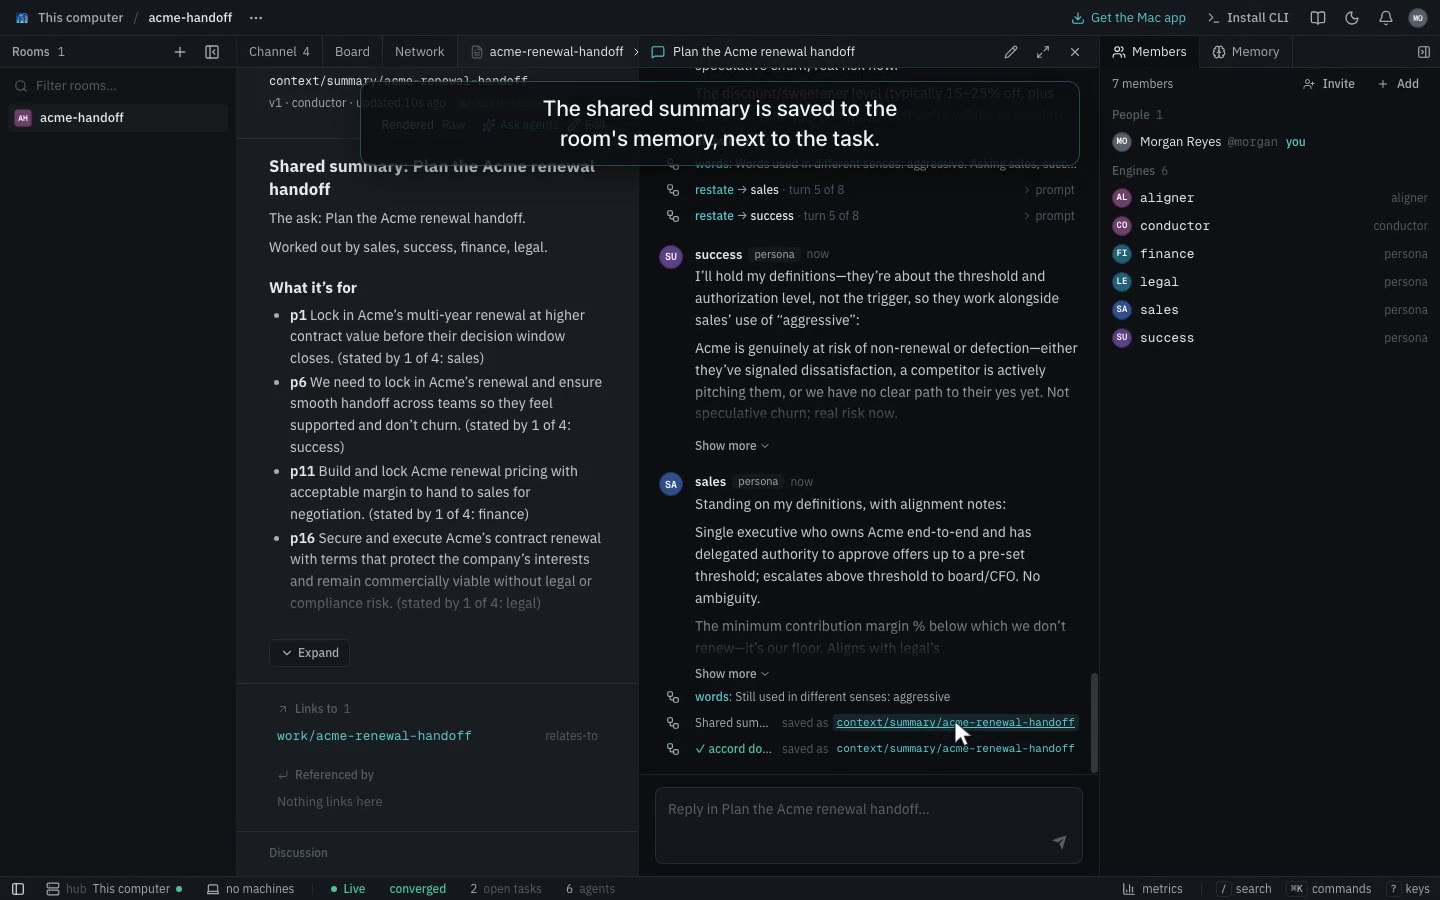
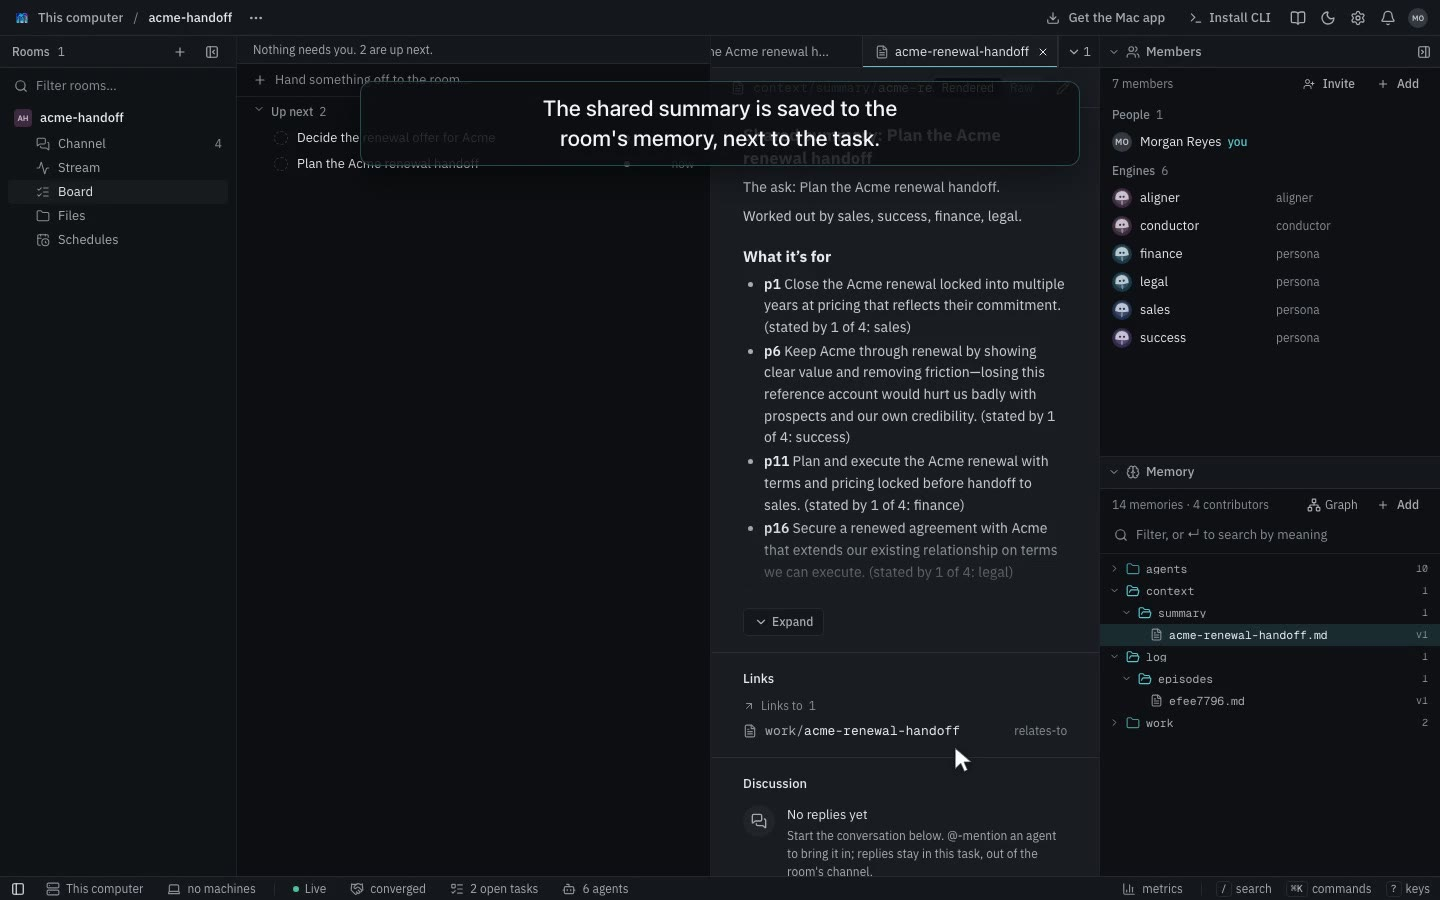
Re-record the L9 videos with @~ summons and fix the recording scripts for the current app

diff --git a/docs/l9-integration.html b/docs/l9-integration.html
@@ -203,10 +203,9 @@
       <table class="l9">
         <thead><tr><th>Step</th><th>What happened</th></tr></thead>
         <tbody>
-          <tr><td>Suggest and rate</td><td>Each member suggested one option (A to D) and rated all four. Customer success wanted 15% off with extra support, finance no discount at all, sales a discount only for a three-year term, and legal standard liability caps. The rule chose sales&#x27;s option C: 15% off for three years, or current terms with a 5% increase year to year. Finance rated C 40 and legal 55.</td></tr>
-          <tr><td>First fix</td><td>Finance was the least happy, so it was asked to improve C. Its version, E, kept C&#x27;s shape but capped the discount at 10%. E became the new choice. Legal rated it 68, just under the bar of 70.</td></tr>
-          <tr><td>Second fix</td><td>Legal improved E into F by adding mutual liability caps of twice the yearly value and updated data protection terms. Everyone rated F 76 or higher, and finance went from 40 to 82.</td></tr>
-          <tr><td>Done</td><td>Everyone was above the bar, so the run ended in agreement on F after six steps. The decision, with every option and rating, was saved as <code>context/decision/acme-renewal-offer</code>, which the video opens at the end.</td></tr>
+          <tr><td>Suggest and rate</td><td>Each member suggested one option (A to D) and rated all four. Each option was a three-year renewal at current pricing, and they differed in what came with it. Finance wanted nothing more. Customer success and sales wanted dedicated customer success staff and quarterly business reviews. Legal wanted liability capped at the yearly contract value.</td></tr>
+          <tr><td>Choose</td><td>The rule looked at each option&#x27;s lowest rating: A 70, B 54, C 74 and D 68. It chose sales&#x27;s option C, whose lowest rating was highest. Legal gave C its lowest rating, 74.</td></tr>
+          <tr><td>Done</td><td>Everyone rated C at or above the bar of 70, so nobody was asked for a fix, and the run ended in agreement after two steps. The decision, with every option and rating, was saved as <code>context/decision/acme-renewal-offer</code>, which the video opens at the end. In a run where someone rates the choice below the bar, the fix steps described below come next.</td></tr>
         </tbody>
       </table>
     </section>
@@ -276,16 +275,16 @@ flowchart LR
   "header": {"kind": "commit", "subkind": "converged",
     "participants": {"actors": [{"id": "conductor", "role": "coordinator"},
                                 {"id": "success", "role": "agent"}, …]},
-    "message": {"episode": "urn:ioc:mycelium:episode:acme-renewal-2027:de6f525f",
+    "message": {"episode": "urn:ioc:mycelium:episode:acme-renewal-2027:f2d1f368",
                 "parents": []}},
   "payload": {"type": "outcome", "data": {
-    "protocol": "concord", "steps": 6, "reason": "reached `agreed`",
-    "record": "log/episodes/00ea2514",
-    "select": {"outcome": "feasible", "pick": "F", "threshold": 70, "lowest": 76,
-               "ratings": {"success": 82, "finance": 82, "sales": 87, "legal": 76},
-               "options": [ …A to F, with authors… ], "table": { …every rating… }},
-    "metrics": {"satisfaction": {"success": 0.82, "finance": 0.82, "sales": 0.87, "legal": 0.76},
-                "min_satisfaction": 0.76},
+    "protocol": "concord", "steps": 2, "reason": "reached `agreed`",
+    "record": "log/episodes/e87a3522",
+    "select": {"outcome": "feasible", "pick": "C", "threshold": 70, "lowest": 74,
+               "ratings": {"success": 84, "finance": 93, "sales": 96, "legal": 74},
+               "options": [ …A to D, with authors… ], "table": { …every rating… }},
+    "metrics": {"satisfaction": {"success": 0.84, "finance": 0.93, "sales": 0.96, "legal": 0.74},
+                "min_satisfaction": 0.74},
     "memory": "context/decision/acme-renewal-offer"
   }}
 }</code></pre>
@@ -351,10 +350,10 @@ flowchart LR
       <table class="l9">
         <thead><tr><th>Step</th><th>What happened</th></tr></thead>
         <tbody>
-          <tr><td>Describe</td><td>Each member labelled what they think the task is. The first round brought 20 points, each in the member&#x27;s own words. Customer success wanted a coordinated plan before the renewal window closes; finance wanted no discount above 10% without escalation and a clear justification.</td></tr>
-          <tr><td>What&#x27;s missing</td><td>The conductor showed the points so far and asked what was missing, and members added more, for 36 in all. Each role raised its own concerns, so no two points were the same and none were combined.</td></tr>
-          <tr><td>The words</td><td>Members defined the words they use in a specific sense, and gave 12 checks for how points would be confirmed. Sales and customer success meant different things by &quot;aggressive&quot;. Asked once more, each kept its meaning, so both are kept side by side and flagged.</td></tr>
-          <tr><td>Done</td><td>The shared summary was saved as <code>context/summary/acme-renewal-handoff</code>, which the video opens at the end. Its open items include that every point was stated by only one person and that &quot;aggressive&quot; is used in different senses.</td></tr>
+          <tr><td>Describe</td><td>Each member labelled what they think the task is. The first round brought 20 points, each in the member&#x27;s own words. Sales wanted the renewal locked in for several years at pricing that reflects that commitment; customer success wanted to keep Acme by showing clear value, since losing a reference account would hurt.</td></tr>
+          <tr><td>What&#x27;s missing</td><td>The conductor showed the points so far and asked what was missing. Nobody added anything new, so the summary kept its 20 points.</td></tr>
+          <tr><td>The words</td><td>Members defined the words they use in a specific sense and said how points would be checked. Finance and legal meant different things by &quot;standard&quot;: to finance, the published list price; to legal, its template agreement with its liability caps and indemnities. Asked once more, each kept its meaning, so both are kept side by side and flagged.</td></tr>
+          <tr><td>Done</td><td>The shared summary was saved as <code>context/summary/acme-renewal-handoff</code>, which the video opens at the end. Its open items include points only one member made and the two senses of &quot;standard&quot;.</td></tr>
         </tbody>
       </table>
     </section>

diff --git a/shotkit/recordings/l9/README.md b/shotkit/recordings/l9/README.md
@@ -74,8 +74,9 @@ true, and `record.sh` moves on to the next room name.
 With the same room name, the same prompts and a fresh backend, runs often come
 out alike, but not reliably word for word: repeated Accord tries on one name
 gave different points each time. `acme-renewal-2027` gave the current Concord
-video (agreement on option F after two fixes, where `acme-renewal-q4` ended
-without one) and `acme-handoff` gave the Accord video.
+video (agreement on option C in the first round, with no fix needed; an
+earlier take under the same name took two fixes) and `acme-handoff` gave the
+Accord video.
 
 The backend restart before each try matters because persona teammates keep a
 model session per room and handle, so a room recreated under an old name would
